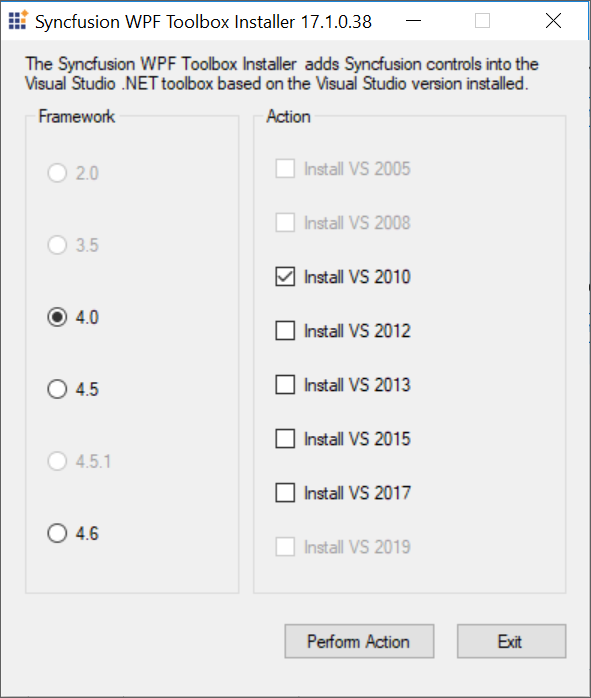
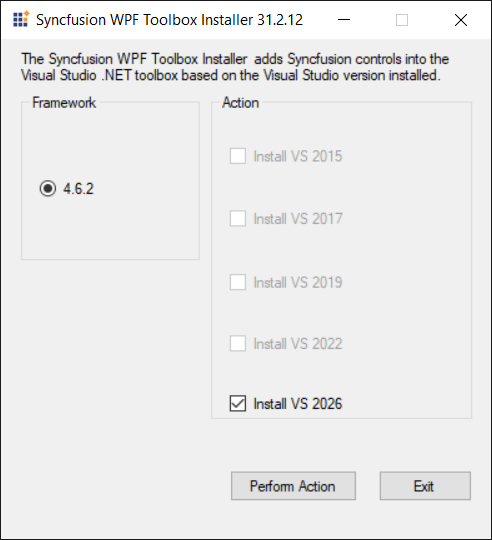
Added Toolbox and VS 2026 changes

diff --git a/wpf/Visual-Studio-Integration/Toolbox-Configuration.md b/wpf/Visual-Studio-Integration/Toolbox-Configuration.md
@@ -39,15 +39,11 @@ To add the Syncfusion® WPF components via the Syncfusion Toolbox Installer, per
 
    The following options are available in Toolbox Configuration:
 
-   * Install VS2005 – Configures Framework 2.0 Syncfusion controls in VS 2005 toolbox.
-   * Install VS2008 – Configures Framework 3.5 Syncfusion controls in VS 2008 toolbox.
-   * Install VS2010 – Configures Framework 4.0 Syncfusion controls in VS 2010 toolbox.
-   * Install VS2012 – Configures Framework 4.5 Syncfusion controls in VS 2012 toolbox.
-   * Install VS2013 – Configures Framework 4.5.1 Syncfusion controls in VS 2013 toolbox.
-   * Install VS2015 – Configures Framework 4.6 Syncfusion controls in VS 2015 toolbox.
-   * Install VS2017 – Configures Framework 4.6 Syncfusion controls in VS 2017 toolbox.
-   * Install VS2019 – Configures Framework 4.6 Syncfusion controls in VS 2019 toolbox
-   * Install VS2022 – Configures Framework 4.6 Syncfusion controls in VS 2022 toolbox.
+   * Install VS2015 – Configures Framework 4.6.2 Syncfusion controls in VS 2015 toolbox.
+   * Install VS2017 – Configures Framework 4.6.2 Syncfusion controls in VS 2017 toolbox.
+   * Install VS2019 – Configures Framework 4.6.2 Syncfusion controls in VS 2019 toolbox
+   * Install VS2022 – Configures Framework 4.6.2 Syncfusion controls in VS 2022 toolbox.
+   * Install VS2026 – Configures Framework 4.6.2 Syncfusion controls in VS 2026 toolbox.
    
     N> You can also configure Syncfusion controls from a lower version Framework assembly to higher version of Visual Studio.
    
@@ -59,12 +55,20 @@ To add the Syncfusion® WPF components via the Syncfusion Toolbox Installer, per
    N> * If your installed controls are not reflected properly in the Visual Studio Toolbox, you'll have to reset the Toolbox.
    * This tool configures only the controls that are located under {Installed Location}\Assemblies\{Framework version}. 
 
+## Configuring toolbox for WPF in Visual Studio 2026
+
+From 2025 Volume 3 SP 2, Syncfusion® started providing toolbox support for .NET Framework in Visual Studio 2026 Toolbox. After installing the Syncfusion® WPF installer, Syncfusion® controls will be automatically configured in the Visual Studio 2026 toolbox for WPF projects.
+
 ## Configuring toolbox for WPF in Visual Studio 2022   
 
 From 2021 Volume 4, Syncfusion® started providing toolbox support for .NET Framework in Visual Studio 2022 Toolbox. After installing the Syncfusion® WPF installer, Syncfusion® controls will be automatically configured in the Visual Studio 2022 toolbox for WPF projects.
 
 N> * Syncfusion® WPF .NET 5.0 controls will be compatible with .NET 6.0, on installing the Syncfusion® WPF installer, our .NET 5.0 controls will be configured the toolbox for .NET 6.0 projects too.
    
+## Configuring toolbox for WPF .NET 8.0\9.0\10.0 projects
+
+From 2025 Volume 3 SP 2 Release, Syncfusion® started providing toolbox support for WPF .NET 8.0\9.0\10.0 framework in Visual Studio 2026. Syncfusion® controls will be automatically configured in the Visual Studio 2026 toolbox for WPF .NET 8.0\9.0\10.0 projects.
+
 ## Configuring toolbox for WPF .NET 5.0 projects
 
 From 2021 Volume 1, Syncfusion® started providing toolbox support for the WPF .NET 5.0 framework in Visual Studio. After installing the Syncfusion® WPF installer, Syncfusion® controls will be automatically configured in the Visual Studio toolbox for WPF.NET 5.0 projects.
